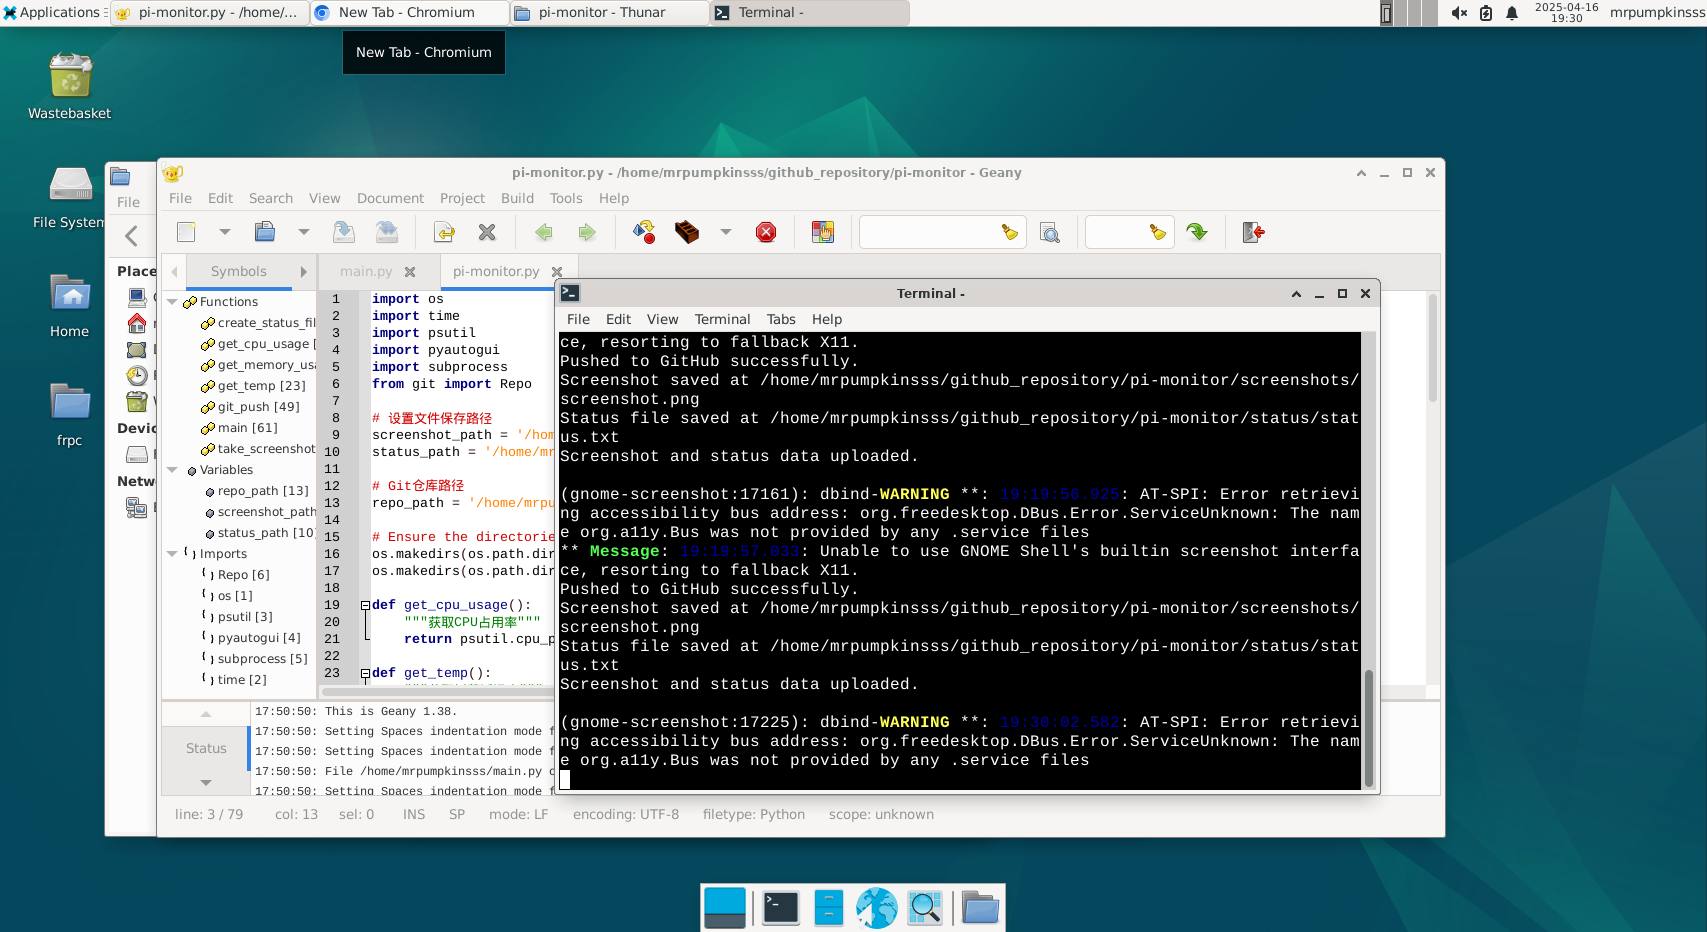
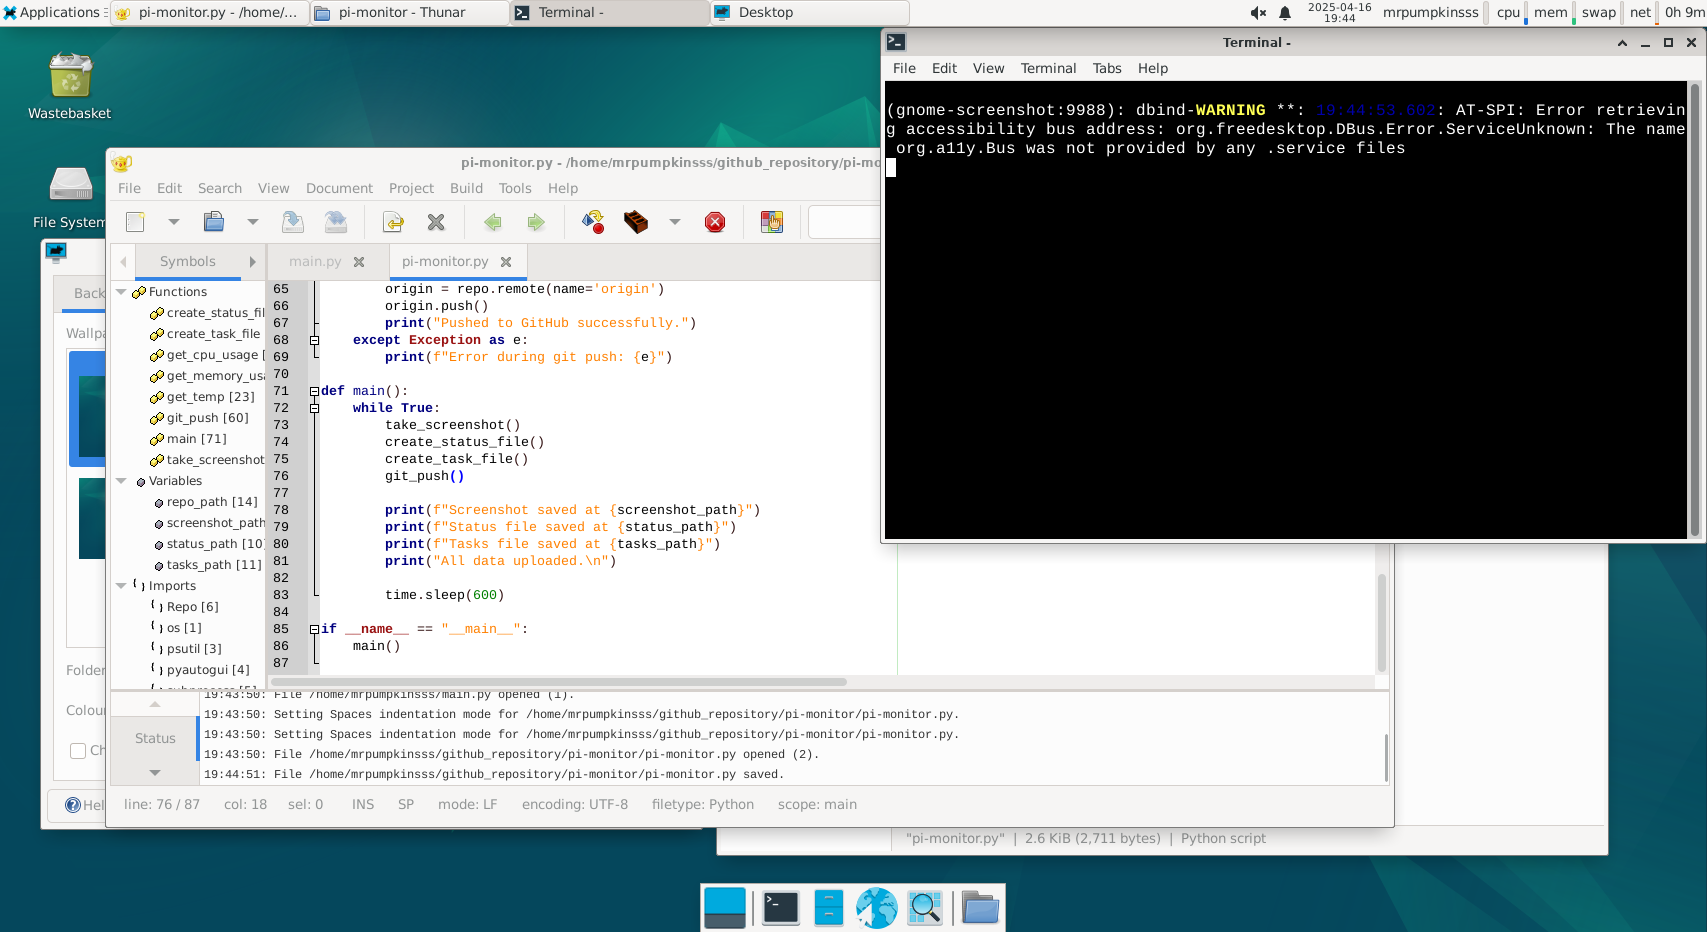
Added screenshot, status, and task data

diff --git a/pi-monitor.py b/pi-monitor.py
@@ -8,6 +8,7 @@ from git import Repo
 # 设置文件保存路径
 screenshot_path = '/home/mrpumpkinsss/github_repository/pi-monitor/screenshots/screenshot.png'
 status_path = '/home/mrpumpkinsss/github_repository/pi-monitor/status/status.txt'
+tasks_path = '/home/mrpumpkinsss/github_repository/pi-monitor/status/tasks.txt'
 
 # Git仓库路径
 repo_path = '/home/mrpumpkinsss/github_repository/pi-monitor/'
@@ -17,26 +18,21 @@ os.makedirs(os.path.dirname(screenshot_path), exist_ok=True)
 os.makedirs(os.path.dirname(status_path), exist_ok=True)
 
 def get_cpu_usage():
-    """获取CPU占用率"""
     return psutil.cpu_percent(interval=1)
 
 def get_temp():
-    """获取树莓派温度"""
     result = subprocess.run(['vcgencmd', 'measure_temp'], stdout=subprocess.PIPE)
     temp = result.stdout.decode().split('=')[1].replace("’C", '')
     return temp
 
 def get_memory_usage():
-    """获取内存占用率"""
     memory = psutil.virtual_memory()
     return memory.percent
 
 def take_screenshot():
-    """截取屏幕截图并保存"""
     pyautogui.screenshot(screenshot_path)
 
 def create_status_file():
-    """创建包含系统状态信息的txt文件"""
     cpu_usage = get_cpu_usage()
     temp = get_temp()
     memory_usage = get_memory_usage()
@@ -46,12 +42,26 @@ def create_status_file():
         f.write(f"Temperature: {temp}°C\n")
         f.write(f"Memory Usage: {memory_usage}%\n")
 
+def create_task_file():
+    """生成任务列表文件"""
+    with open(tasks_path, 'w') as f:
+        f.write(f"{'PID':>6} {'Name':<25} {'CPU%':>6} {'Memory%':>8}\n")
+        f.write("-" * 50 + "\n")
+        for proc in psutil.process_iter(['pid', 'name', 'cpu_percent', 'memory_percent']):
+            try:
+                pid = proc.info['pid']
+                name = proc.info['name'][:25]
+                cpu = proc.info['cpu_percent']
+                memory = proc.info['memory_percent']
+                f.write(f"{pid:>6} {name:<25} {cpu:>6.1f} {memory:>8.1f}\n")
+            except (psutil.NoSuchProcess, psutil.AccessDenied):
+                continue
+
 def git_push():
-    """将截图和状态文件上传至GitHub"""
     try:
         repo = Repo(repo_path)
-        repo.git.add(A=True)  # 将所有更改（新增文件、修改文件）加入到Git
-        repo.index.commit(f"Added screenshot and status data")
+        repo.git.add(A=True)
+        repo.index.commit("Added screenshot, status, and task data")
         origin = repo.remote(name='origin')
         origin.push()
         print("Pushed to GitHub successfully.")
@@ -60,18 +70,16 @@ def git_push():
 
 def main():
     while True:
-        # 截取屏幕并创建状态文件
         take_screenshot()
         create_status_file()
-
-        # 上传截图和状态文件到GitHub
+        create_task_file()
         git_push()
 
         print(f"Screenshot saved at {screenshot_path}")
         print(f"Status file saved at {status_path}")
-        print("Screenshot and status data uploaded.")
+        print(f"Tasks file saved at {tasks_path}")
+        print("All data uploaded.\n")
 
-        # 每隔600秒执行一次
         time.sleep(600)
 
 if __name__ == "__main__":
